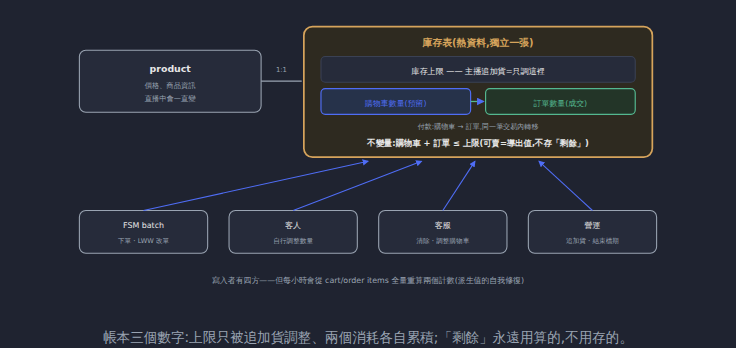
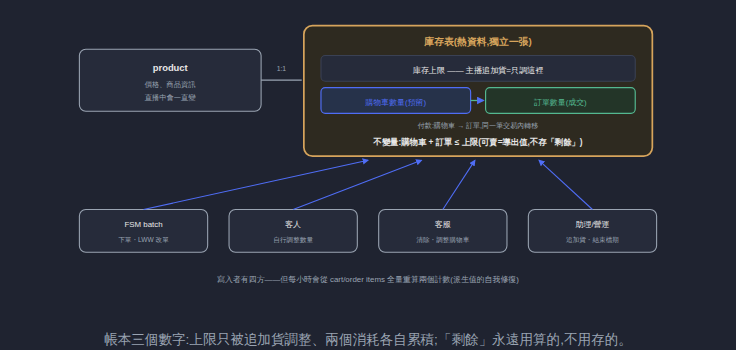
修正 #9 後台章互文與 #5 追加庫存操作者(作者裁定:直播助理)
review #9 rezero-console 的兩個發現:

1. 黑名單引用指錯章:「黑名單的留言 batch 根本不處理(留言章)」——
   #3 留言章沒有這個機制,快判黑名單是 #13 風控章的內容。移除錯誤
   引用,改由句尾的風控章連結收線。
2. 跨章矛盾(作者裁定):直播中追加庫存的操作者,#5 三處寫「營運」、
   #9 三處寫「助理」——經作者確認是**直播助理**。以 #9 為準修正
   #5(Serializable 保險帶句、重來調整帳 bullet、帳本圖寫入者改
   「助理/營運:追加貨・結束檔期」)與 roadmap 口述(2026-08-25
   更正註記)。

鐵人賽 day07(含 day07-1.png 重產)、day08、day14 同步。

Claude-Session: https://claude.ai/code/session_01CvSnMJ1vCjbkh11Qu9m2ih

diff --git a/src/content/blog/rezero-inventory.md b/src/content/blog/rezero-inventory.md
@@ -19,7 +19,7 @@ draft: false
 最直覺的庫存設計,是存一個「剩餘庫存」欄位,賣一件減一、退一件加一。當年沒有這樣做,而是把帳本拆成**一個上限、兩個消耗**:
 
 <figure style="margin:1.5rem 0;text-align:center;">
-  <svg viewBox="0 0 580 300" role="img" aria-label="庫存帳本的模型。左側是 product 表,放價格與商品資訊,直播中會變動。右側是與它一對一的庫存表,存三個數字:庫存上限(主播追加貨就是調這裡)、購物車數量(預留)、訂單數量(成交);付款時購物車數量轉為訂單數量,在同一筆交易內完成。中間標出不變量:購物車加訂單必須小於等於上限;可賣是導出值,不另外儲存。下方四個寫入者:FSM batch 下單與改單、客人調數量、客服清除調整、營運追加貨與結束檔期,全部指向這張庫存表。最底下標註每小時從 cart items 與 order items 全量重算兩個計數,作為派生值的自我修復。" style="width:100%;max-width:620px;height:auto;margin:0 auto;">
+  <svg viewBox="0 0 580 300" role="img" aria-label="庫存帳本的模型。左側是 product 表,放價格與商品資訊,直播中會變動。右側是與它一對一的庫存表,存三個數字:庫存上限(主播追加貨就是調這裡)、購物車數量(預留)、訂單數量(成交);付款時購物車數量轉為訂單數量,在同一筆交易內完成。中間標出不變量:購物車加訂單必須小於等於上限;可賣是導出值,不另外儲存。下方四個寫入者:FSM batch 下單與改單、客人調數量、客服清除調整、助理追加貨與營運結束檔期,全部指向這張庫存表。最底下標註每小時從 cart items 與 order items 全量重算兩個計數,作為派生值的自我修復。" style="width:100%;max-width:620px;height:auto;margin:0 auto;">
     <defs><marker id="rvf" markerWidth="7" markerHeight="7" refX="5" refY="3" orient="auto"><path d="M0,0 L0,6 L6,3 z" fill="#4f6df5"/></marker><marker id="rvm" markerWidth="7" markerHeight="7" refX="5" refY="3" orient="auto"><path d="M0,0 L0,6 L6,3 z" fill="#9aa4b2"/></marker></defs>
     <rect x="20" y="46" width="170" height="58" rx="6" fill="#262b3a" stroke="#9aa4b2" stroke-width="1"/>
     <text x="105" y="66" fill="#e6e6e6" font-size="8.8" text-anchor="middle" font-weight="bold">product</text>
@@ -48,7 +48,7 @@ draft: false
     <text x="360" y="212" fill="#e6e6e6" font-size="7.4" text-anchor="middle">客服</text>
     <text x="360" y="226" fill="#9aa4b2" font-size="6.2" text-anchor="middle">清除・調整購物車</text>
     <rect x="440" y="196" width="120" height="40" rx="6" fill="#262b3a" stroke="#9aa4b2" stroke-width="1"/>
-    <text x="500" y="212" fill="#e6e6e6" font-size="7.4" text-anchor="middle">營運</text>
+    <text x="500" y="212" fill="#e6e6e6" font-size="7.4" text-anchor="middle">助理/營運</text>
     <text x="500" y="226" fill="#9aa4b2" font-size="6.2" text-anchor="middle">追加貨・結束檔期</text>
     <line x1="80" y1="196" x2="290" y2="150" stroke="#4f6df5" stroke-width="1" marker-end="url(#rvf)"/>
     <line x1="220" y1="196" x2="340" y2="150" stroke="#4f6df5" stroke-width="1" marker-end="url(#rvf)"/>
@@ -69,7 +69,7 @@ draft: false
 
 併發扣庫存的標準選項有三條路:資料庫鎖、[[redis-distributed-lock|Redis 原子操作]]、單一寫入者排隊。當年的組合是第一條的重裝版:**ORM + transaction、先查再扣、Serializable 隔離、噴錯就重試**。[[ddia-transactions|Serializable]] 保證「先查再扣」的間隙不會被人插隊——擠進來的交易會直接失敗,重試,重試再失敗⋯⋯然後,**那位顧客就被略過了**。
 
-先講公道話:這套當年**沒有超賣過**(超賣另有兇手,下一節)。單一 batch 消費者本來就把大部分的寫入天然序列化了,Serializable 是對付其餘寫入者(客人調數量、客服調整、營運追加)的保險帶,邏輯上無懈可擊。
+先講公道話:這套當年**沒有超賣過**(超賣另有兇手,下一節)。單一 batch 消費者本來就把大部分的寫入天然序列化了,Serializable 是對付其餘寫入者(客人調數量、客服調整、助理追加貨)的保險帶,邏輯上無懈可擊。
 
 問題出在失敗的**分佈**。重試耗盡的顧客不是隨機掉的:衝突集中在哪裡,犧牲就集中在哪裡——衝突永遠集中在**最搶手的商品**。也就是說:**你賣得越好的商品,無聲消失的客人越多。** 這個偏差安靜、不報錯、不進任何儀表板,是我現在回看最想修的一刀。
 
@@ -149,7 +149,7 @@ if updated == 0:
 另外兩道防線:
 
 - **每小時全量重算。** 兩個計數的真相是 cart items 和 order items,計數只是它們的快取;每小時從真相重建一次,漂移的上界被壓在一小時內——最終一致性的自我修復,也是三本帳那章的迷你預告。重來只補一件事:**重算出的差異要記錄、要告警**——差異不為零代表某條增量路徑有 bug,默默蓋掉等於把 bug 的訊號一起擦掉。
-- **追加貨改走調整帳。** 當年直播中追加庫存的 API 會打失敗——開賣瞬間幾百個下單交易在同一列上排隊,營運的 UPDATE 擠不進去,現場只能人工重打,等於讓營運當了重試機制。重來把追加貨改成 append 的**調整帳(adjustments ledger)**:`上限 = 初始 + SUM(調整)`,營運寫入永遠是 insert 新列、不碰熱列,而且自帶「誰、何時、加了多少」的 audit——後台章要的操作留痕,順便解決。
+- **追加貨改走調整帳。** 當年直播中追加庫存的 API 會打失敗——開賣瞬間幾百個下單交易在同一列上排隊,助理的 UPDATE 擠不進去,現場只能人工重打,等於讓直播助理當了重試機制。重來把追加貨改成 append 的**調整帳(adjustments ledger)**:`上限 = 初始 + SUM(調整)`,追加寫入永遠是 insert 新列、不碰熱列,而且自帶「誰、何時、加了多少」的 audit——後台章要的操作留痕,順便解決。
 
 ## 反思
 

diff --git a/docs/rezero-live-commerce-series-roadmap.md b/docs/rezero-live-commerce-series-roadmap.md
@@ -124,7 +124,7 @@
 **庫存事故與維護(#5/#16 相關)**:
 - **超賣真的發生過,而且不是併發造成的——是需求變更**:原設計只有直播購物車佔賣出數量(商城加入購物車不佔);後來需求方要商城購物車也算入賣出數量,改完 **migrate 一跑,賣出數量瞬間暴增超過庫存**——把新語意追溯套到歷史資料上,invariant 當場破裂。作者重來的立場:**這個需求會踩死不隨便改**。
 - **每小時定時重新統計賣出數量**——增量計數+定時全量重算,自帶最終一致性的味道(對帳章的迷你版:派生值的自我修復)。
-- **直播中追加庫存的 API 會打失敗、只能重打**:stock/sold 在同一張表(同一列),開賣當下大量 bidding 交易搶同一列,營運的加庫存更新擠不進去(Serializable 衝突/鎖競爭),現場只能人工重試。
+- **直播中追加庫存的 API 會打失敗、只能重打**:stock/sold 在同一張表(同一列),開賣當下大量 bidding 交易搶同一列,加庫存更新擠不進去(Serializable 衝突/鎖競爭),現場只能人工重試。(2026-08-25 更正:現場按追加庫存的是**直播助理**,不是營運——#5/#9 已對齊,寫入者=FSM batch/客人/客服/助理(追加貨)/營運(結束檔期)。)
 
 **結帳、訂單與付款結構(#6/#7 相關)**:
 - **支援跨檔期合併結帳**(不同實況主買的東西一起結),結構三層:**orders payment ← order ← order item**——一次結帳一個 payment,聚合多張 order。

diff --git a/docs/ironman/day08.md b/docs/ironman/day08.md
@@ -26,7 +26,7 @@
 另外兩道防線:
 
 - **每小時全量重算。** 兩個計數的真相是 cart items 和 order items,計數只是它們的快取;每小時從真相重建一次,漂移的上界被壓在一小時內——最終一致性的自我修復,也是三本帳那章的迷你預告。重來只補一件事:**重算出的差異要記錄、要告警**——差異不為零代表某條增量路徑有 bug,默默蓋掉等於把 bug 的訊號一起擦掉。
-- **追加貨改走調整帳。** 當年直播中追加庫存的 API 會打失敗——開賣瞬間幾百個下單交易在同一列上排隊,營運的 UPDATE 擠不進去,現場只能人工重打,等於讓營運當了重試機制。重來把追加貨改成 append 的**調整帳(adjustments ledger)**:`上限 = 初始 + SUM(調整)`,營運寫入永遠是 insert 新列、不碰熱列,而且自帶「誰、何時、加了多少」的 audit——後台章要的操作留痕,順便解決。
+- **追加貨改走調整帳。** 當年直播中追加庫存的 API 會打失敗——開賣瞬間幾百個下單交易在同一列上排隊,助理的 UPDATE 擠不進去,現場只能人工重打,等於讓直播助理當了重試機制。重來把追加貨改成 append 的**調整帳(adjustments ledger)**:`上限 = 初始 + SUM(調整)`,追加寫入永遠是 insert 新列、不碰熱列,而且自帶「誰、何時、加了多少」的 audit——後台章要的操作留痕,順便解決。
 
 ## 反思
 

diff --git a/src/content/blog/rezero-console.md b/src/content/blog/rezero-console.md
@@ -76,7 +76,7 @@ draft: false
 
 兩個細節值得停:
 
-- **留言流上帶著黑名單標籤。** 系統層面,黑名單的留言 batch 根本不處理([[rezero-comment-order|留言章]]);但介面層面,主播**看得到**這個人是黑名單——喊單現場的人肉決策(這位的單口頭跳過、不留貨)有了即時情報。風控不只是過濾器,還是**遞到決策者手上的一張情報卡**,這條線風控章會收回來。
+- **留言流上帶著黑名單標籤。** 系統層面,黑名單的留言 batch 根本不處理;但介面層面,主播**看得到**這個人是黑名單——喊單現場的人肉決策(這位的單口頭跳過、不留貨)有了即時情報。風控不只是過濾器,還是**遞到決策者手上的一張情報卡**,這條線(連同 batch 怎麼快判黑名單)[[rezero-risk|風控章]]會收回來。
 - **數據的組成是「自家事實+平台數據」的混搭。** 賣量、下單人來自自己的帳本,觀看數來自 FB API——主播不在乎來源,他在乎的是「現在場子熱不熱、貨走不走得動」。儀表板的組織原則是**使用者的問題**,不是資料的出處——這跟我後來在 [[obs-grafana|Grafana]] 系列寫的「一個 panel 回答一個問題」是同一件事,只是當年沒有這些詞彙。
 
 ## 助理與營運:操作台的兩種節奏

diff --git a/docs/ironman/day07.md b/docs/ironman/day07.md
@@ -18,7 +18,7 @@
 
 併發扣庫存的標準選項有三條路:資料庫鎖、Redis 原子操作、單一寫入者排隊。當年的組合是第一條的重裝版:**ORM + transaction、先查再扣、Serializable 隔離、噴錯就重試**。Serializable 保證「先查再扣」的間隙不會被人插隊——擠進來的交易會直接失敗,重試,重試再失敗⋯⋯然後,**那位顧客就被略過了**。
 
-先講公道話:這套當年**沒有超賣過**(超賣另有兇手,下一節)。單一 batch 消費者本來就把大部分的寫入天然序列化了,Serializable 是對付其餘寫入者(客人調數量、客服調整、營運追加)的保險帶,邏輯上無懈可擊。
+先講公道話:這套當年**沒有超賣過**(超賣另有兇手,下一節)。單一 batch 消費者本來就把大部分的寫入天然序列化了,Serializable 是對付其餘寫入者(客人調數量、客服調整、助理追加貨)的保險帶,邏輯上無懈可擊。
 
 問題出在失敗的**分佈**。重試耗盡的顧客不是隨機掉的:衝突集中在哪裡,犧牲就集中在哪裡——衝突永遠集中在**最搶手的商品**。也就是說:**你賣得越好的商品,無聲消失的客人越多。** 這個偏差安靜、不報錯、不進任何儀表板,是我現在回看最想修的一刀。
 

diff --git a/docs/ironman/day14.md b/docs/ironman/day14.md
@@ -16,7 +16,7 @@
 
 兩個細節值得停:
 
-- **留言流上帶著黑名單標籤。** 系統層面,黑名單的留言 batch 根本不處理(留言章);但介面層面,主播**看得到**這個人是黑名單——喊單現場的人肉決策(這位的單口頭跳過、不留貨)有了即時情報。風控不只是過濾器,還是**遞到決策者手上的一張情報卡**,這條線風控章會收回來。
+- **留言流上帶著黑名單標籤。** 系統層面,黑名單的留言 batch 根本不處理;但介面層面,主播**看得到**這個人是黑名單——喊單現場的人肉決策(這位的單口頭跳過、不留貨)有了即時情報。風控不只是過濾器,還是**遞到決策者手上的一張情報卡**,這條線(連同 batch 怎麼快判黑名單)風控章會收回來。
 - **數據的組成是「自家事實+平台數據」的混搭。** 賣量、下單人來自自己的帳本,觀看數來自 FB API——主播不在乎來源,他在乎的是「現在場子熱不熱、貨走不走得動」。儀表板的組織原則是**使用者的問題**,不是資料的出處——這跟我後來在 Grafana 系列寫的「一個 panel 回答一個問題」是同一件事,只是當年沒有這些詞彙。
 
 ## 助理與營運:操作台的兩種節奏
